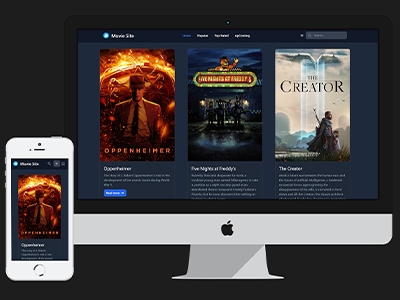
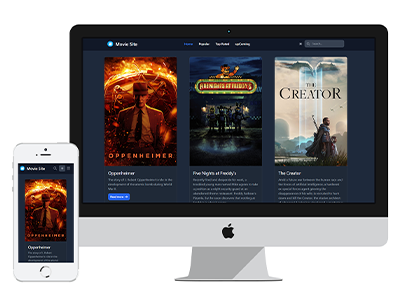
Working on Contact Page

diff --git a/src/Components/Portfolio/MyProject.js b/src/Components/Portfolio/MyProject.js
@@ -1,6 +1,6 @@
 import React from 'react'
 import { Project } from './Project'
-
+import './Myproject.css'
 export const MyProject = () => {
 
     const ProjectList =[
@@ -8,9 +8,9 @@ export const MyProject = () => {
     {id:2,UrlCode:'https://github.com/barinale/openData',UrlView:'https://barinale.github.io/openData/',ImageUrl:'./assestsO/OpenDAta.png',TechnologyUser:[1,2,3,4]},
     {id:3,UrlCode:'https://github.com/barinale/2cSolution',UrlView:'https://barinale.github.io/2cSolution/',ImageUrl:'./assestsO/Solution.png',TechnologyUser:[1,2,3,4]},
     {id:4,UrlCode:'https://github.com/barinale/ecomercewebsite',UrlView:'https://barinale.github.io/ecomercewebsite/',ImageUrl:'./assestsO/ecomrc.png',TechnologyUser:[1,2,3,4]},
-    {id:5,UrlCode:'https://github.com/barinale/busnis',UrlView:'https://barinale.github.io/busnis/',ImageUrl:'./assestsO/busnin.png',TechnologyUser:[]},
-    {id:6,UrlCode:'https://github.com/barinale/earwear',UrlView:'https://barinale.github.io/earwear/',ImageUrl:'./assestsO/OpenDAta.png',TechnologyUser:[1,2,3,4]},
-    {id:7,UrlCode:'https://github.com/barinale/mouta',UrlView:'https://barinale.github.io/mouta/',ImageUrl:'./assestsO/OpenDAta.png',TechnologyUser:[1,2,3]}
+    {id:5,UrlCode:'https://github.com/barinale/busnis',UrlView:'https://barinale.github.io/busnis/',ImageUrl:'./assestsO/busnin.png',TechnologyUser:[1,2,3]},
+    {id:6,UrlCode:'https://github.com/barinale/earwear',UrlView:'https://barinale.github.io/earwear/',ImageUrl:'./assestsO/EarKit.png',TechnologyUser:[1,2,3,4]},
+    {id:7,UrlCode:'https://github.com/barinale/mouta',UrlView:'https://barinale.github.io/mouta/',ImageUrl:'./assestsO/ProductMouta.png',TechnologyUser:[1,2,3]}
 ]
   return (
     <div className='ProjectList'>

diff --git a/src/Components/header/Menu.js b/src/Components/header/Menu.js
@@ -23,7 +23,6 @@ export const Menu = ({show,MenuClicking}) => {
                 <div className='container'>
                     <div className='MenuClass'>
                         <div className='MenuHeaderLogo'>
-                            <img src='' alt='M'/>
                         </div>
                         <div className='closeButton'>
                             <div onClick={MenuClicking}>
@@ -36,7 +35,7 @@ export const Menu = ({show,MenuClicking}) => {
                                 <li><Link to="" onClick={()=>HandlClick()} onMouseOver={handHover} onMouseLeave={handLeave}>home</Link></li>
                                 <li><Link to="/about" onClick={()=>HandlClick()} onMouseOver={handHover} onMouseLeave={handLeave} data-test-id="">About</Link></li>
                                 <li><Link to="/Portfolio" onClick={()=>HandlClick()} onMouseOver={handHover} onMouseLeave={handLeave}>portfolio</Link></li>
-                                <li><Link to="" onClick={()=>HandlClick()} onMouseOver={handHover} onMouseLeave={handLeave}>contact</Link></li>
+                                <li><Link to="/Contact" onClick={()=>HandlClick()} onMouseOver={handHover} onMouseLeave={handLeave}>contact</Link></li>
                             </ul>
                         </nav>
                     </div>

diff --git a/src/Components/About/InfoAbout.js b/src/Components/About/InfoAbout.js
@@ -9,8 +9,8 @@ export const InfoAbout = () => {
                 <img src={MeImage} alt="Image Not Found" />
             </div>
             <div className='AboutMeText'>
-                <h1>I'm Creative <span> web Developer </span> based In Rabat</h1>
-                <p>Im' A junior devlopeur passion About bara anad bara and Also bara and so on sof ro </p>
+                <h1>I'm  <span>Mohammed Mekkaoui. </span>  I'm <span>27 years</span>  old.</h1>
+                <p>  I'm passionate about technology and the world of IT, especially programming. So, I try to improve myself every day in this area </p>
             </div>
             <div className='ButtonCv'>
                 <a href='MyResume.pdf' download>Download CV</a>

diff --git a/src/Router/AllRouter.js b/src/Router/AllRouter.js
@@ -3,6 +3,7 @@ import { Route, Routes } from 'react-router-dom'
 import { Main } from '../Pages/Main'
 import { About } from '../Pages/About'
 import { Portfolio } from '../Pages/Portfolio'
+import { Contact } from '../Pages/Contact'
 
 export const AllRouter = () => {
   return (
@@ -11,6 +12,7 @@ export const AllRouter = () => {
             <Route path="/" element={<Main/>}/>
             <Route path="/About" element={<About/>}/>
             <Route path="/Portfolio" element={<Portfolio/>}/>
+            <Route path="/Contact" element={<Contact/>}/>
 
         </Routes>
     </div>

diff --git a/src/Components/Portfolio/Project.js b/src/Components/Portfolio/Project.js
@@ -12,8 +12,8 @@ export const Project = ({project}) => {
          
 
             <ul>
-                <li><a href={UrlCode} target='_blank'>Experience it live </a></li>
-                <li><a href={UrlView} target='_blank'>Check out the code</a></li>
+                <li><a href={UrlView} target='_blank'>Experience it live </a></li>
+                <li><a href={UrlCode} target='_blank'>Check out the code</a></li>
             </ul>
             <div className='TechnologyUsed'>
               {TechnologyUser.map((item,index)=>{

diff --git a/src/Pages/Main.css b/src/Pages/Main.css
@@ -1,7 +1,7 @@
 #MainSection{
         background-color: var(--backgournd-color);
         background-image: url("./../assests/mePhoto.png") ;
-        background-size:600px;
+        background-size:400px;
         background-position:100% 100%;
         background-repeat: no-repeat;
         height: 100vh;
@@ -9,7 +9,11 @@
         position: relative;
         z-index: 0;
 }
-@media (min-width:1026px) {
- 
+@media (min-width:361px) {
+
+        #MainSection{
+        background-size:600px;
+
+        }
         
 }

diff --git a/src/Components/Portfolio/Project.css b/src/Components/Portfolio/Project.css
@@ -1,9 +1,8 @@
 .Project{
     width: 100%;
     background-color: var(--background-menu-color);
-    padding: 0em 1em;
+    padding: 0.4em 1em;
     border-radius: 10px;
-
 }
 
 .Project .ImageLinkInfo{
@@ -16,6 +15,7 @@
     width: 100%;
     min-height:200px ;
     background-color: red;    
+    border-radius: 10px;
 }
 
 .Project .ImageLinkInfo ul{
@@ -59,6 +59,10 @@
     border-radius: 15px;
 }
 
-
+@media(min-width:360px){
+    .Project{
+        width:360px;
+    }
+}
 
 

diff --git a/src/Components/header/Info.js b/src/Components/header/Info.js
@@ -11,9 +11,9 @@ export const Info = () => {
             <TypeAnimation
                 sequence={[
                     // Same substring at the start will only be typed out once, initially
-                    'Devllepeur',
+                    '',
                     1000, // wait 1s before replacing "Mice" with "Hamsters"
-                    'Front End',
+                    'a front-end developer',
                     1000,
              
                 ]}

diff --git a/src/Components/About/InfoAbout.css b/src/Components/About/InfoAbout.css
@@ -1,5 +1,5 @@
 .InfoAbout{
-    margin: 5em 0;
+    margin:5em 0;
     display: flex;
     justify-content: center;
     flex-direction: column;
@@ -63,10 +63,10 @@
         margin-bottom: 1em;
     }
     .InfoAbout .imageAbout{ 
-        /* width: 25%; */
+        width: 25%;
     }
     .InfoAbout .AboutMeText {
-        /* width: 65%; */
+        width: 65%;
     }
     .InfoAbout .AboutMeText p{
         font-size: 1.3em;

diff --git a/src/Components/header/Header.js b/src/Components/header/Header.js
@@ -14,7 +14,7 @@ useEffect(()=>{
     <header id="header">
           <nav className='container'>
             <ul>
-                <li><img src='' /></li>
+                <li></li>
                 <li>
                     <button className='navMenuButton' 
                             onClick={MenuShowButton}>

diff --git a/src/Components/Portfolio/Myproject.css b/src/Components/Portfolio/Myproject.css
@@ -1,0 +1,14 @@
+.ProjectList{
+    margin:5em 0;
+    display: flex;
+    justify-content: center;
+    flex-direction: column;
+    gap: 2em;
+}
+@media (min-width:360px) {
+    .ProjectList{
+        flex-direction: row;
+        flex-wrap: wrap;
+        justify-content: space-around;
+    }
+}

diff --git a/src/Components/contact/HeaderContact.js b/src/Components/contact/HeaderContact.js
@@ -1,0 +1,12 @@
+import React from 'react'
+import './../GlobatStyle.css'
+
+export const HeaderContact = () => {
+  return (
+    <div className='container'>
+      <div className='HeaderComponent'>
+         <h1>About <span >Me</span></h1>
+      </div>
+    </div>
+  )
+}
